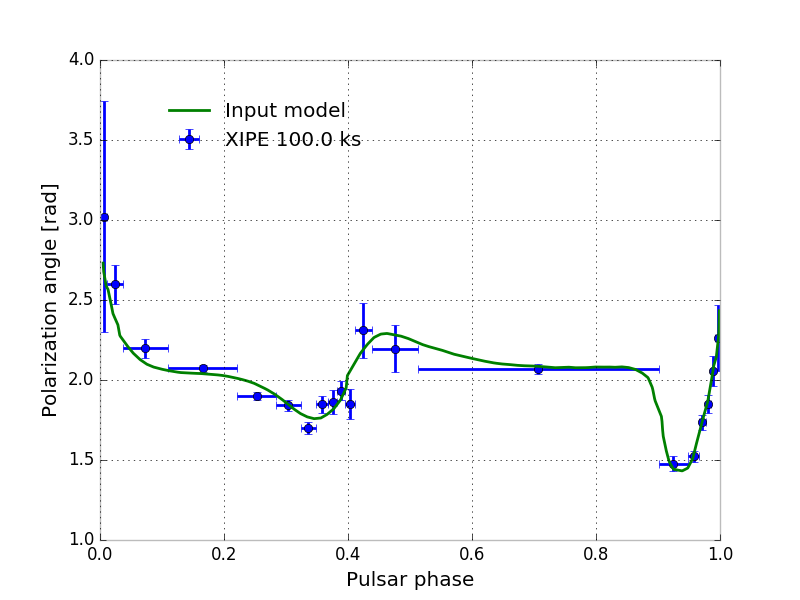
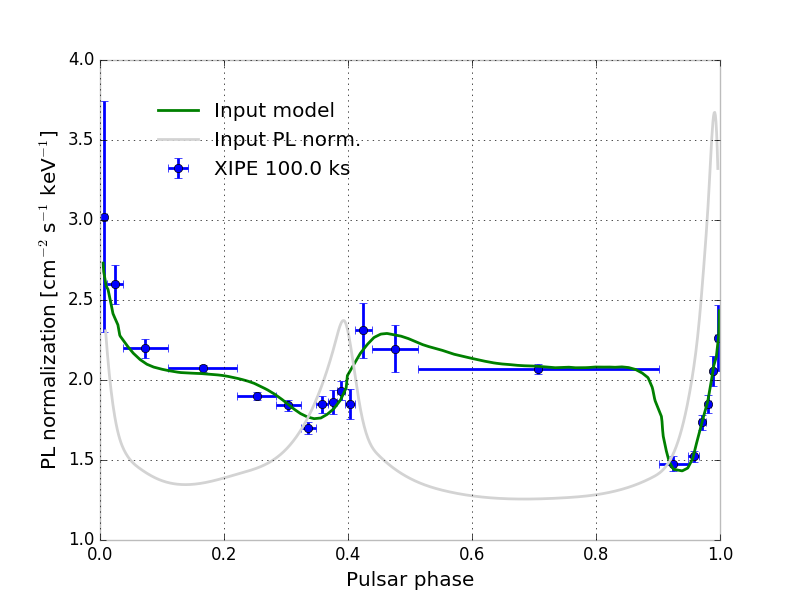
Minor.

diff --git a/ximpol/examples/crab_pulsar.py b/ximpol/examples/crab_pulsar.py
@@ -128,6 +128,7 @@ def plot(save=False):
     """
     sim_label = 'XIPE %s ks' % (SIM_DURATION/1000.)
     mod_label = 'Input model'
+    lc_label = 'Input PL norm.'
     _phase, _phase_err, _pol_deg, _pol_deg_err, _pol_angle,\
         _pol_angle_err, _index, _index_err, _norm,\
         _norm_err = numpy.loadtxt(ANALYSIS_FILE_PATH, unpack=True)
@@ -135,6 +136,8 @@ def plot(save=False):
     plt.errorbar(_phase, _pol_deg, xerr=_phase_err, yerr=_pol_deg_err, fmt='o',
                  label=sim_label)
     pol_degree_spline.plot(show=False, label=mod_label)
+    pl_normalization_spline.plot(scale=0.09, show=False, color='lightgray',
+                                 label=lc_label)
     plt.axis([None, None, 0., 0.4])
     plt.legend(bbox_to_anchor=(0.45, 0.95))
     if save:
@@ -143,6 +146,8 @@ def plot(save=False):
     plt.errorbar(_phase, _pol_angle, xerr=_phase_err, yerr=_pol_angle_err,
                  fmt='o', label=sim_label)
     pol_angle_spline.plot(show=False, label=mod_label)
+    pl_normalization_spline.plot(scale=0.6, offset=1.25, show=False,
+                                 color='lightgray', label=lc_label)
     plt.legend(bbox_to_anchor=(0.45, 0.95))
     if save:
         save_current_figure('crab_polarization_angle', OUTPUT_FOLDER, False)

diff --git a/ximpol/core/spline.py b/ximpol/core/spline.py
@@ -236,7 +236,7 @@ class xUnivariateSplineBase:
         return xInterpolatedUnivariateSplineLinear(_x, _y, **fmt)
 
     def plot(self, num_points=1000, overlay=False, logx=False, logy=False,
-             show=True, **kwargs):
+             scale=1., offset=0., show=True, **kwargs):
         """Plot the spline.
 
         Args
@@ -252,7 +252,7 @@ class xUnivariateSplineBase:
         """
         from ximpol.utils.matplotlib_ import pyplot as plt
         _x = numpy.linspace(self.xmin(), self.xmax(), num_points)
-        _y = self(_x)
+        _y = scale*self(_x) + offset
         if overlay:
             plt.plot(_x, _y, '-', self.x, self.y, 'o', **kwargs)
         else:

diff --git a/doc/release_notes.rst b/doc/release_notes.rst
@@ -3,6 +3,8 @@ Release notes
 
 * One more unit test added.
 * A few tweaks and some cleanup.
+* Optional scale and offset parameters added to the plot() method for the
+  univariates splines.
 
 
 *ximpol (0.37.1) - Tue, 15 Mar 2016 17:10:54 -0700*
